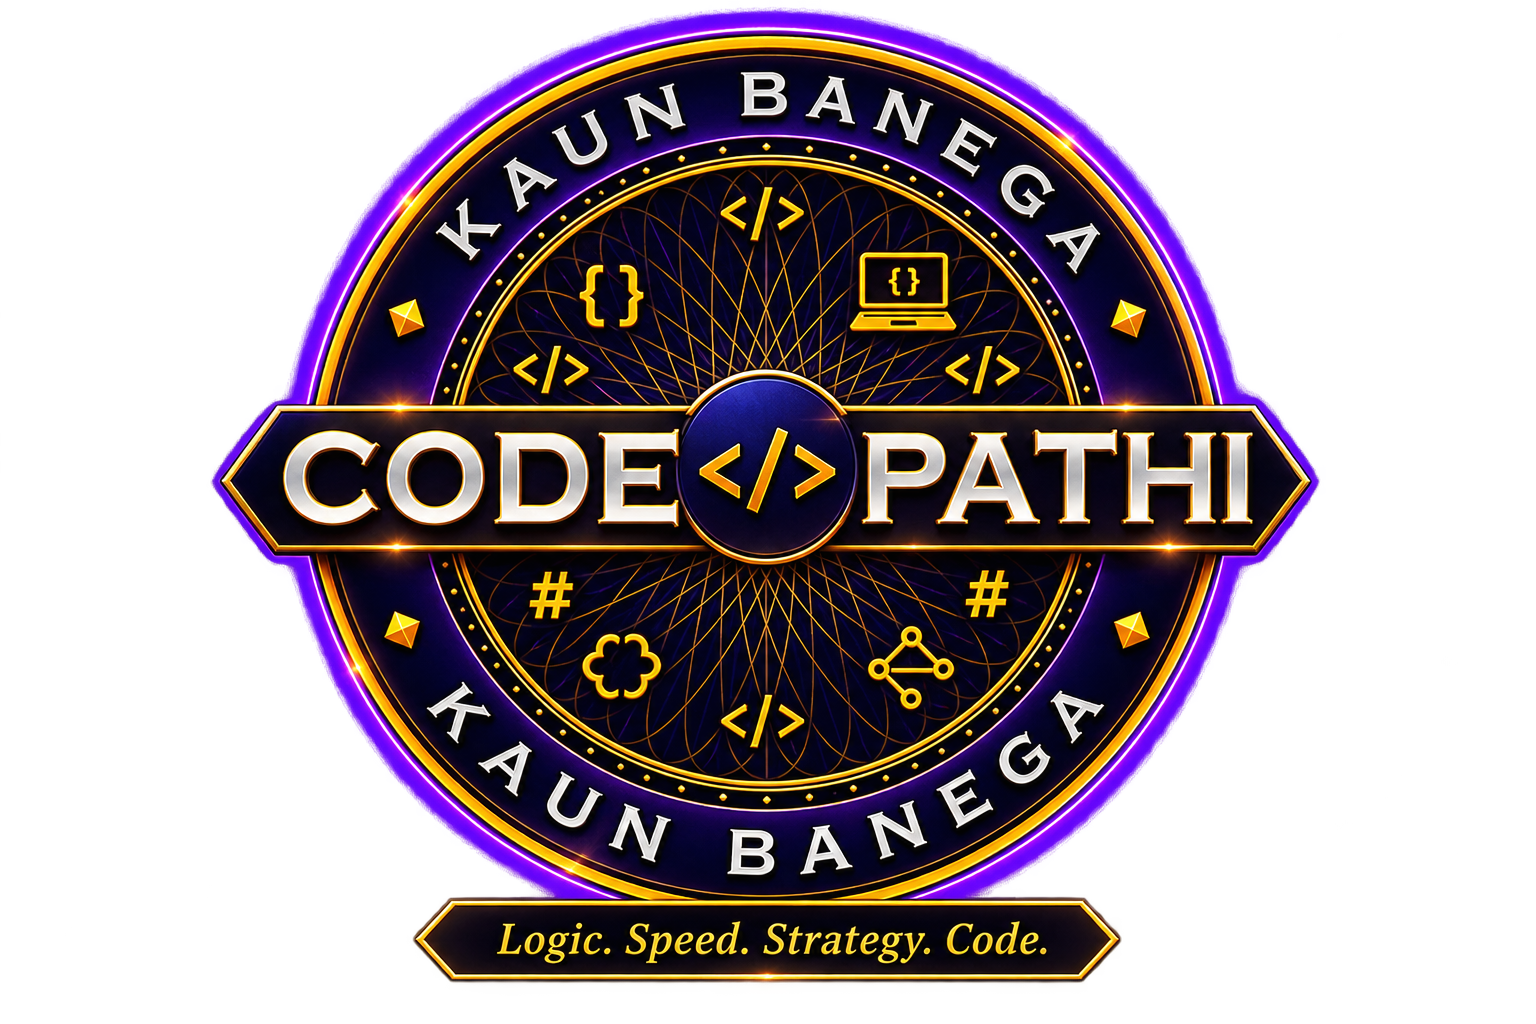
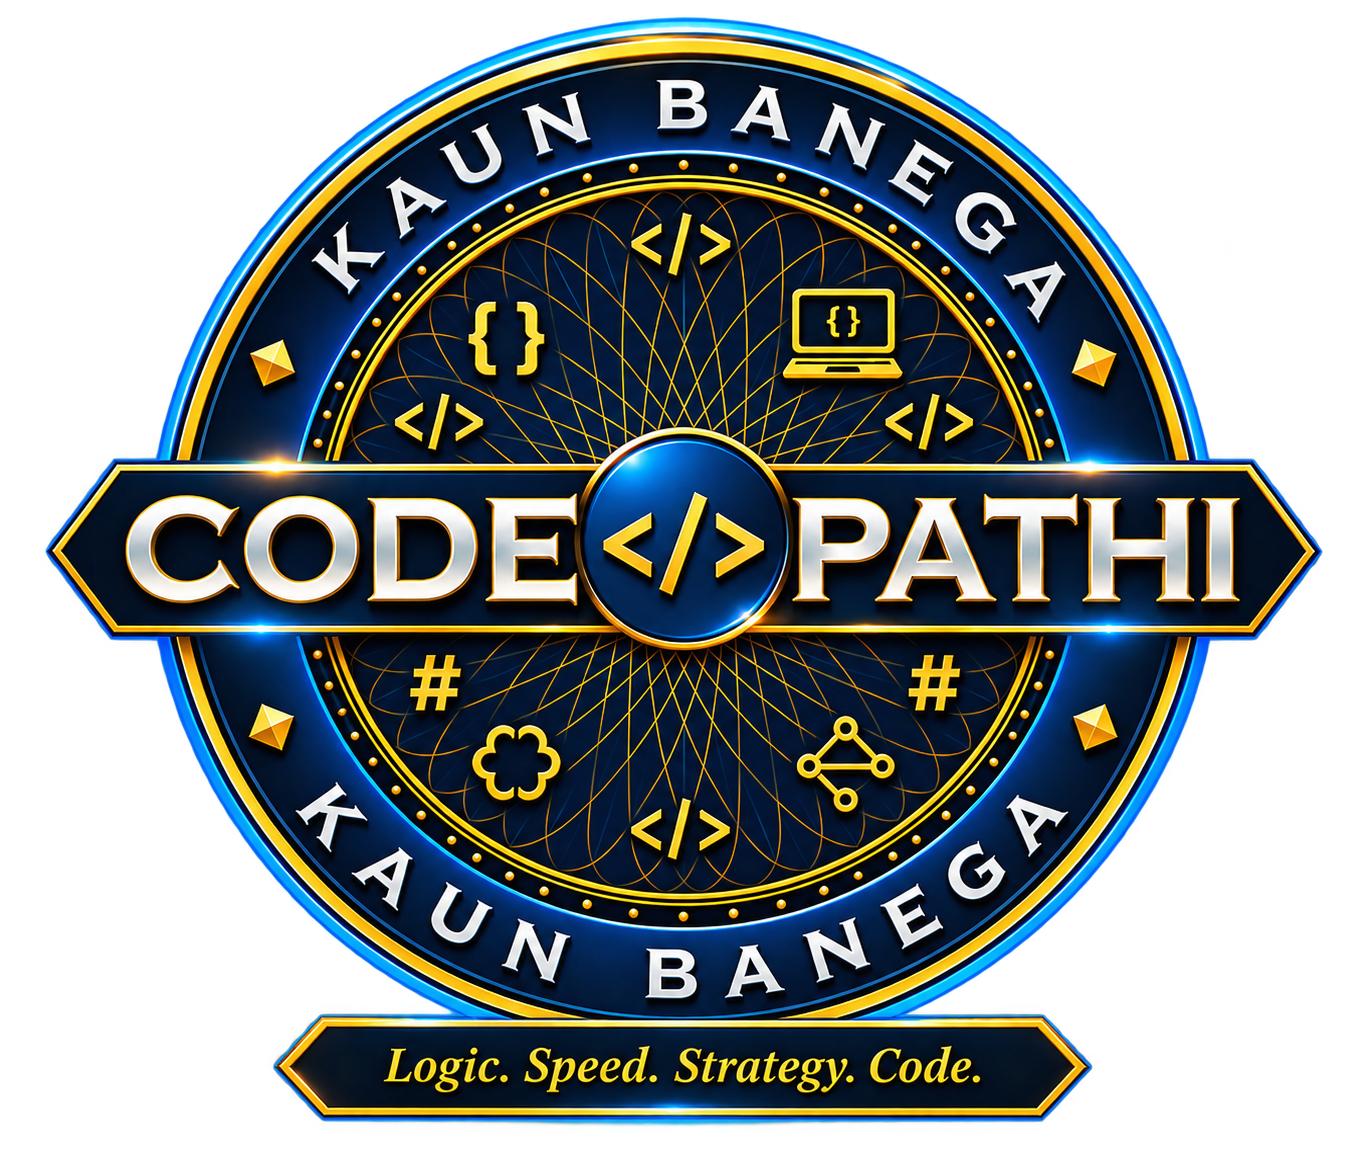
Mobile layout fixed and changed emblem color

diff --git a/src/components/Hero.css b/src/components/Hero.css
@@ -637,3 +637,8 @@
     transition: none;
   }
 }
+@media (max-width: 560px) {
+  .hero__emblem-wrap {
+    transform: translateX(12px);
+  }
+}
